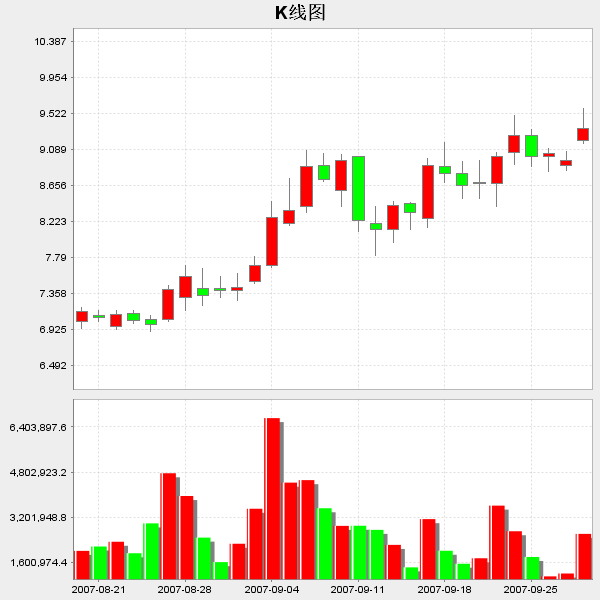
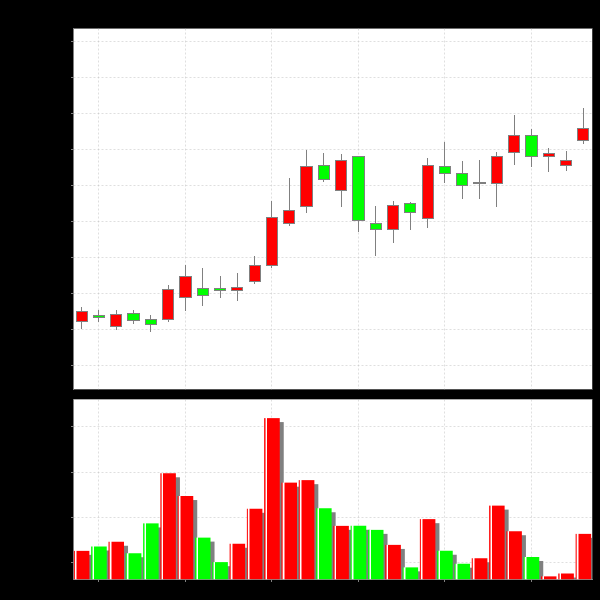
K线图路径问题依然没有解决 加入一些CSS

Changed region(s): [[0.0, 0.0, 1.0, 1.0]]

diff --git a/presentation/src/main/resources/ClientOverviewCSS.css b/presentation/src/main/resources/ClientOverviewCSS.css
@@ -1,0 +1,9 @@
+.root{
+    -fx-background-color:rgb(0,0,0);
+}
+
+.button{
+    -fx-base:rgb(0,0,0);
+    -fx-font-color:rgb(255,255,255);
+    -fx-font-size: 2em;
+}

diff --git a/presentation/src/main/resources/CandlestickChartCSS.css b/presentation/src/main/resources/CandlestickChartCSS.css
@@ -1,0 +1,8 @@
+.label{
+    -fx-base:rgb(0,0,0);
+    -fx-text-fill:rgb(240,150,96);
+    -fx-font-size: 1em;
+}
+
+
+

diff --git a/presentation/src/main/resources/ThermometerCSS.css b/presentation/src/main/resources/ThermometerCSS.css
@@ -1,6 +1,4 @@
-.root{
-    -fx-background-color:rgb(0,0,0);
-}
+
 
 .label{
     -fx-text-fill:rgb(240,150,96);

diff --git a/presentation/src/main/java/ui/CandlestickChartController.java b/presentation/src/main/java/ui/CandlestickChartController.java
@@ -26,9 +26,9 @@ import org.jfree.data.time.ohlc.OHLCSeries;
 import org.jfree.data.time.ohlc.OHLCSeriesCollection;
 
 import java.awt.*;
+import java.io.File;
 import java.io.FileNotFoundException;
 import java.io.FileOutputStream;
-import java.io.File;
 import java.io.IOException;
 import java.text.SimpleDateFormat;
 import java.time.LocalDate;
@@ -38,6 +38,7 @@ import java.time.LocalDate;
  * Created by xjwhhh on 2017/3/4.
  */
 public class CandlestickChartController {
+    //要不要做日K，周K，月K
     private Main main;
 
     @FXML
@@ -219,10 +220,12 @@ public class CandlestickChartController {
         x1Axis.setTickUnit(new DateTickUnit(DateTickUnit.DAY,7));//设置时间刻度的间隔，一般以周为单位
         x1Axis.setDateFormatOverride(new SimpleDateFormat("yyyy-MM-dd"));//设置显示时间的格式
         NumberAxis y1Axis=new NumberAxis();//设定y轴，就是数字轴
-        y1Axis.setAutoRange(false);//不不使用自动设定范围
+        y1Axis.setAutoRange(false);//不使用自动设定范围
         y1Axis.setRange(minValue*0.9, highValue*1.1);//设定y轴值的范围，比最低值要低一些，比最大值要大一些，这样图形看起来会美观些
         y1Axis.setTickUnit(new NumberTickUnit((highValue*1.1-minValue*0.9)/10));//设置刻度显示的密度
         XYPlot plot1=new XYPlot(seriesCollection,x1Axis,y1Axis,candlestickRender);//设置画图区域对象
+
+
 
         XYBarRenderer xyBarRender=new XYBarRenderer(){
             private static final long serialVersionUID = 1L;//为了避免出现警告消息，特设定此值
@@ -245,19 +248,32 @@ public class CandlestickChartController {
         combineddomainxyplot.setGap(10);//设置两个图形区域对象之间的间隔空间
         JFreeChart chart = new JFreeChart("K线图", JFreeChart.DEFAULT_TITLE_FONT, combineddomainxyplot, false);
 
+        chart.setBackgroundPaint(Color.black);//背景颜色
+        x1Axis.setTickMarkPaint(Color.yellow);
+        y1Axis.setTickMarkPaint(Color.yellow);
+        y2Axis.setTickMarkPaint(Color.yellow);
+        x1Axis.setTickLabelPaint(Color.white);
+        y1Axis.setTickLabelPaint(Color.white);
+        y2Axis.setTickLabelPaint(Color.white);
+        plot1.setBackgroundPaint(Color.black);
+        plot2.setBackgroundPaint(Color.black);
+
         //动态生成图片并展示
         FileOutputStream out=null;
         try{
-            //搞不懂啊
-            File outFile=new File("../../resources/Kimage.png");
+
+            //搞不懂啊这个路径问题
+//            File outFile=new File("../../resources/Kimage.png");
+            File outFile=new File("C:\\Users\\xjwhh\\IdeaProjects\\QI_System\\presentation\\src\\main\\resources\\Kimage.jpeg");
+
             if(!outFile.getParentFile().exists()){
                 outFile.getParentFile().mkdirs();
             }
             out=new FileOutputStream(outFile);
-            ChartUtilities.writeChartAsPNG(out,chart,600,600);
+            ChartUtilities.writeChartAsJPEG(out,chart,600,500);
             out.flush();
-            out.close();
-            System.out.print(outFile.getPath().toString());
+//            out.close();
+//            System.out.print(outFile.getPath().toString());
         }
         catch(FileNotFoundException e){
             e.printStackTrace();
@@ -266,10 +282,13 @@ public class CandlestickChartController {
             e.printStackTrace();
         }
 
-        Image image=new Image("/Kimage.png");
+        Image image=new Image("/Kimage.jpeg");
         ImageView im=new ImageView(image);
         gridPane.add(im,0,0);
     }
+
+    //对K线图进行数据注入
+    //public OHLCSeries addData(OHLCSeries series,)
 
     public void createEMA(){
         final CategoryAxis xAxis = new CategoryAxis();
@@ -326,7 +345,22 @@ public class CandlestickChartController {
 
         lineChart.getData().addAll(series1, series2, series3);
 
+
     }
+
+    /**
+     * 对均线图进行数据注入
+     * @param series
+     * @param data
+     * @return
+     */
+    public XYChart.Series addData(XYChart.Series series,int [] data){
+        for(int i=0;i<data.length;i++){
+            series.getData().add(new XYChart.Data(i+1,data[i]));
+        }
+        return series;
+    }
+
 
     public void setMain(Main main) {
         this.main = main;
